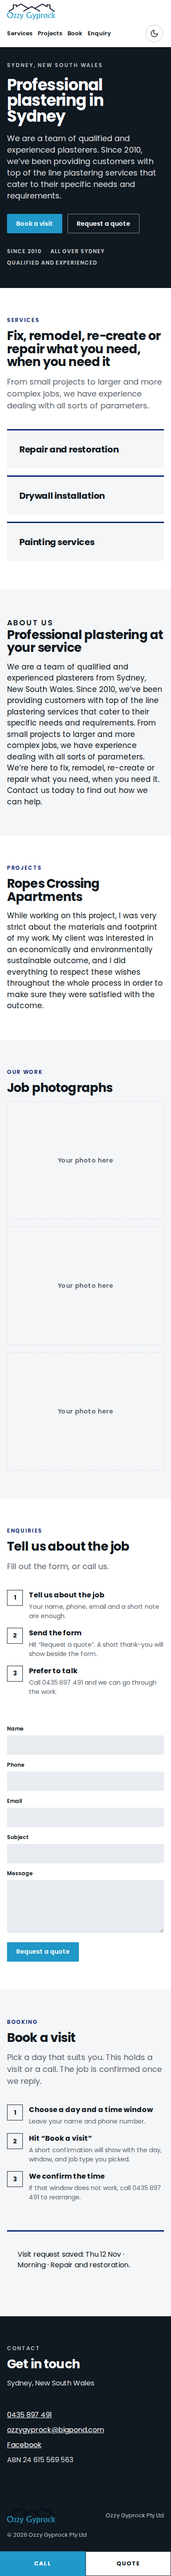
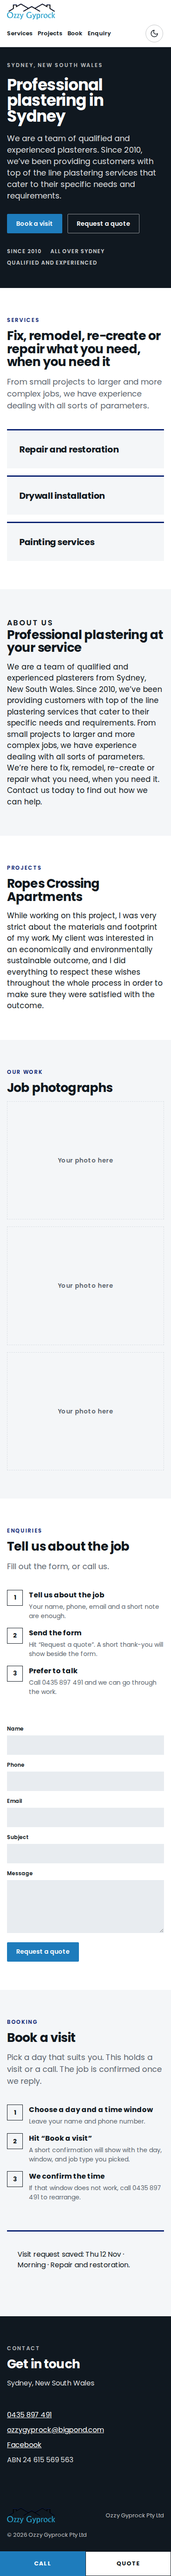
Raise CTA contrast and set preview title copy.
Primary buttons and the Call bar use #1E7CBC for 4.5:1 white text; README, title, and descriptions are the preview strings.

Changed region(s): [[0.0, 0.9659, 0.5231, 1.0], [0.0308, 0.7478, 0.4615, 0.779], [0.0308, 0.0623, 0.3692, 0.0935]]

diff --git a/wix-embed.html b/wix-embed.html
@@ -3,8 +3,10 @@
 <head>
 <meta charset="utf-8">
 <meta name="viewport" content="width=device-width, initial-scale=1">
-<title>Ozzy Gyprock Pty Ltd — Professional plastering in Sydney</title>
-<meta name="description" content="Ozzy Gyprock provides professional plastering services all over Sydney, New South Wales. We are qualified, reliable, efficient and only produce quality work.">
+<title>Ozzy Gyprock — Home</title>
+<meta name="description" content="Website preview.">
+<meta property="og:description" content="Website preview.">
+<meta name="twitter:description" content="Website preview.">
 <meta name="robots" content="noindex,nofollow">
 <link rel="preload" href="https://cromservices.github.io/ozzy-gyprock-preview/assets/fonts/poppins-400.woff2" as="font" type="font/woff2" crossorigin>
 <link rel="preload" href="https://cromservices.github.io/ozzy-gyprock-preview/assets/fonts/poppins-600.woff2" as="font" type="font/woff2" crossorigin>
@@ -17,7 +19,7 @@
 :root{
   --ink:#101820;
   --navy:#082070;
-  --blue:#2098C8;
+  --blue:#1E7CBC;
   --blue-deep:#1878A0;
   --paper:#F4F6F8;
   --white:#FFFFFF;

diff --git a/index.html b/index.html
@@ -3,8 +3,10 @@
 <head>
 <meta charset="utf-8">
 <meta name="viewport" content="width=device-width, initial-scale=1">
-<title>Ozzy Gyprock Pty Ltd — Professional plastering in Sydney</title>
-<meta name="description" content="Ozzy Gyprock provides professional plastering services all over Sydney, New South Wales. We are qualified, reliable, efficient and only produce quality work.">
+<title>Ozzy Gyprock — Home</title>
+<meta name="description" content="Website preview.">
+<meta property="og:description" content="Website preview.">
+<meta name="twitter:description" content="Website preview.">
 <meta name="robots" content="noindex,nofollow">
 <link rel="preload" href="assets/fonts/poppins-400.woff2" as="font" type="font/woff2" crossorigin>
 <link rel="preload" href="assets/fonts/poppins-600.woff2" as="font" type="font/woff2" crossorigin>

diff --git a/styles.css b/styles.css
@@ -5,7 +5,7 @@
 :root{
   --ink:#101820;
   --navy:#082070;
-  --blue:#2098C8;
+  --blue:#1E7CBC;
   --blue-deep:#1878A0;
   --paper:#F4F6F8;
   --white:#FFFFFF;

diff --git a/README.md b/README.md
@@ -1,3 +1,1 @@
-# ozzy-gyprock preview
-
-Spec preview by Crom Services. Not the live site. Not indexed.
+Website preview.
